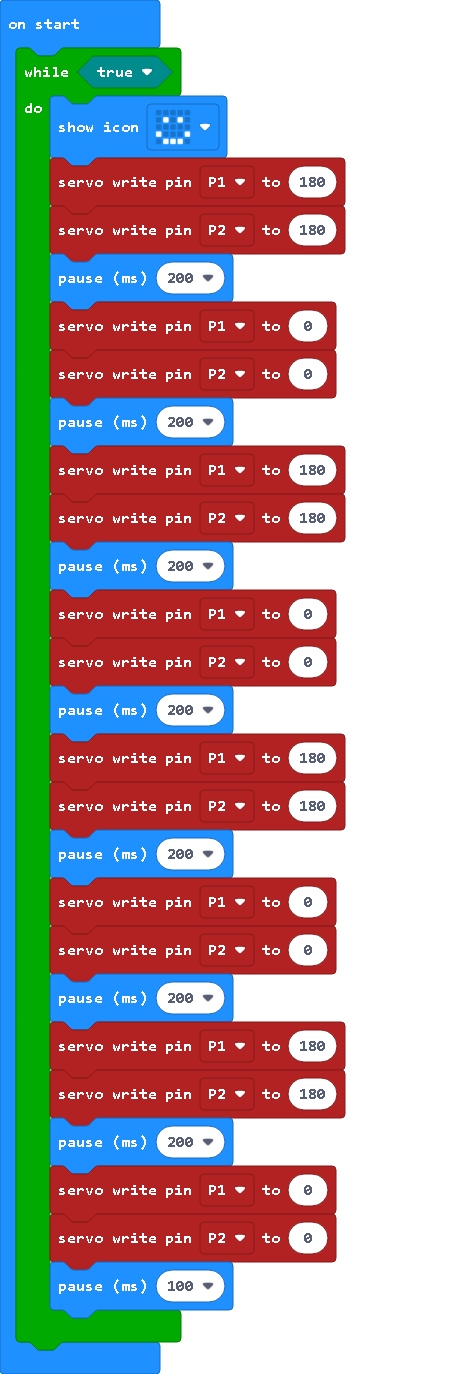
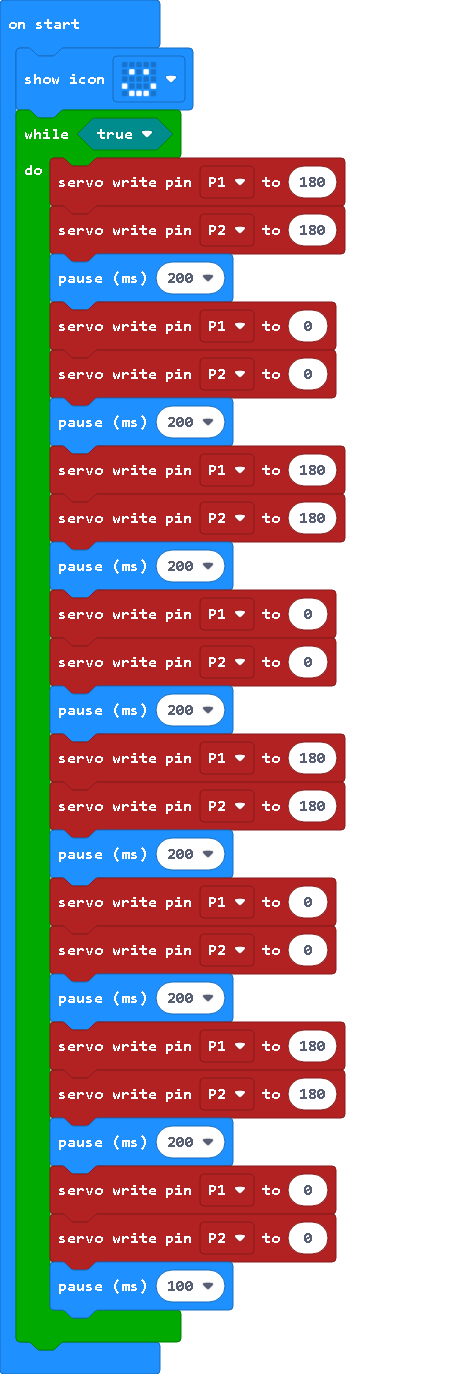
Update main.blocks, main.ts, main.py

Changed region(s): [[0.0312, 0.0306, 0.5301, 0.1223]]

diff --git a/main.ts b/main.ts
@@ -1,5 +1,5 @@
+basic.showIcon(IconNames.Happy)
 while (true) {
-    basic.showIcon(IconNames.Happy)
     pins.servoWritePin(AnalogPin.P1, 180)
     pins.servoWritePin(AnalogPin.P2, 180)
     basic.pause(200)

diff --git a/main.py b/main.py
@@ -1,15 +1,26 @@
 while True:
     basic.show_icon(IconNames.HAPPY)
-    pins.servo_write_pin(AnalogPin.P1, 0)
-    pins.servo_write_pin(AnalogPin.P2, 0)
     pins.servo_write_pin(AnalogPin.P1, 180)
     pins.servo_write_pin(AnalogPin.P2, 180)
-
-def on_forever():
-    while True:
-        basic.show_icon(IconNames.HAPPY)
-        pins.servo_write_pin(AnalogPin.P1, 0)
-        pins.servo_write_pin(AnalogPin.P2, 0)
-        pins.servo_write_pin(AnalogPin.P1, 180)
-        pins.servo_write_pin(AnalogPin.P2, 180)
-basic.forever(on_forever)
+    basic.pause(200)
+    pins.servo_write_pin(AnalogPin.P1, 0)
+    pins.servo_write_pin(AnalogPin.P2, 0)
+    basic.pause(200)
+    pins.servo_write_pin(AnalogPin.P1, 180)
+    pins.servo_write_pin(AnalogPin.P2, 180)
+    basic.pause(200)
+    pins.servo_write_pin(AnalogPin.P1, 0)
+    pins.servo_write_pin(AnalogPin.P2, 0)
+    basic.pause(200)
+    pins.servo_write_pin(AnalogPin.P1, 180)
+    pins.servo_write_pin(AnalogPin.P2, 180)
+    basic.pause(200)
+    pins.servo_write_pin(AnalogPin.P1, 0)
+    pins.servo_write_pin(AnalogPin.P2, 0)
+    basic.pause(200)
+    pins.servo_write_pin(AnalogPin.P1, 180)
+    pins.servo_write_pin(AnalogPin.P2, 180)
+    basic.pause(200)
+    pins.servo_write_pin(AnalogPin.P1, 0)
+    pins.servo_write_pin(AnalogPin.P2, 0)
+    basic.pause(100)
